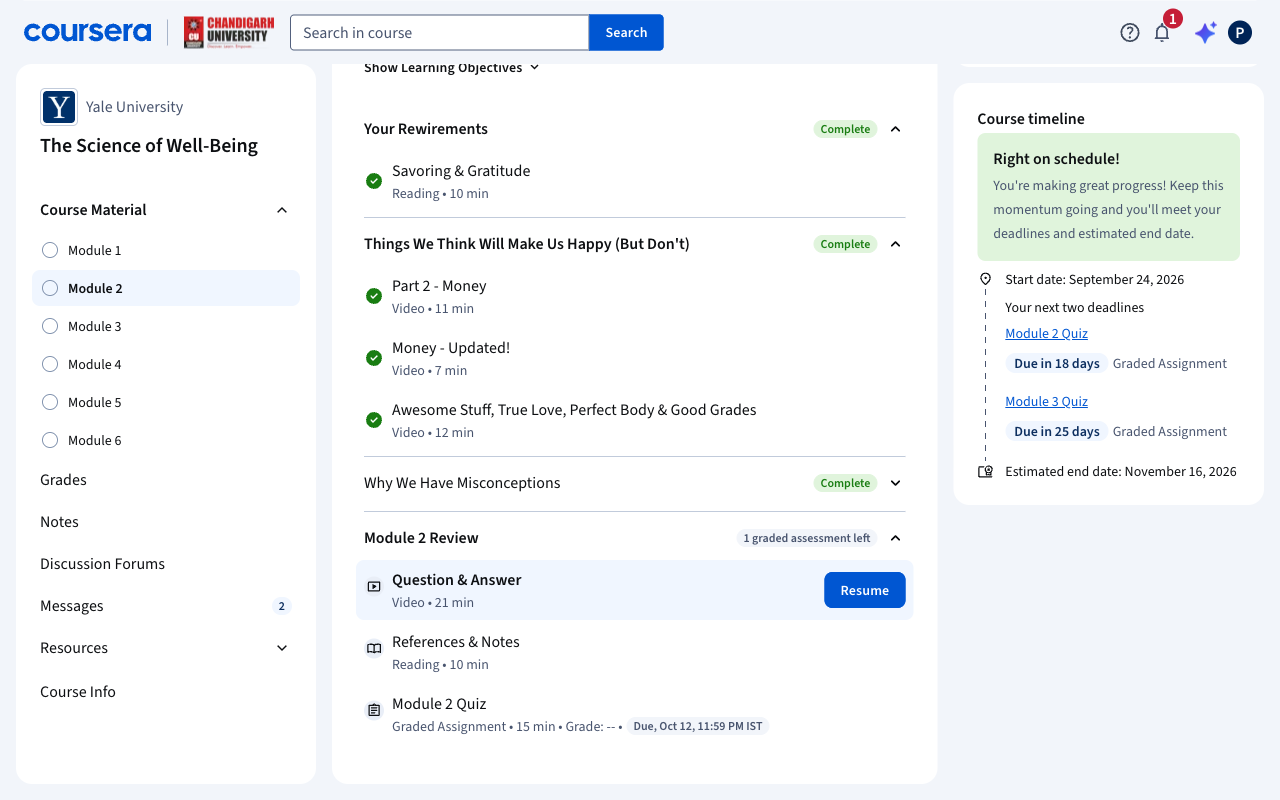
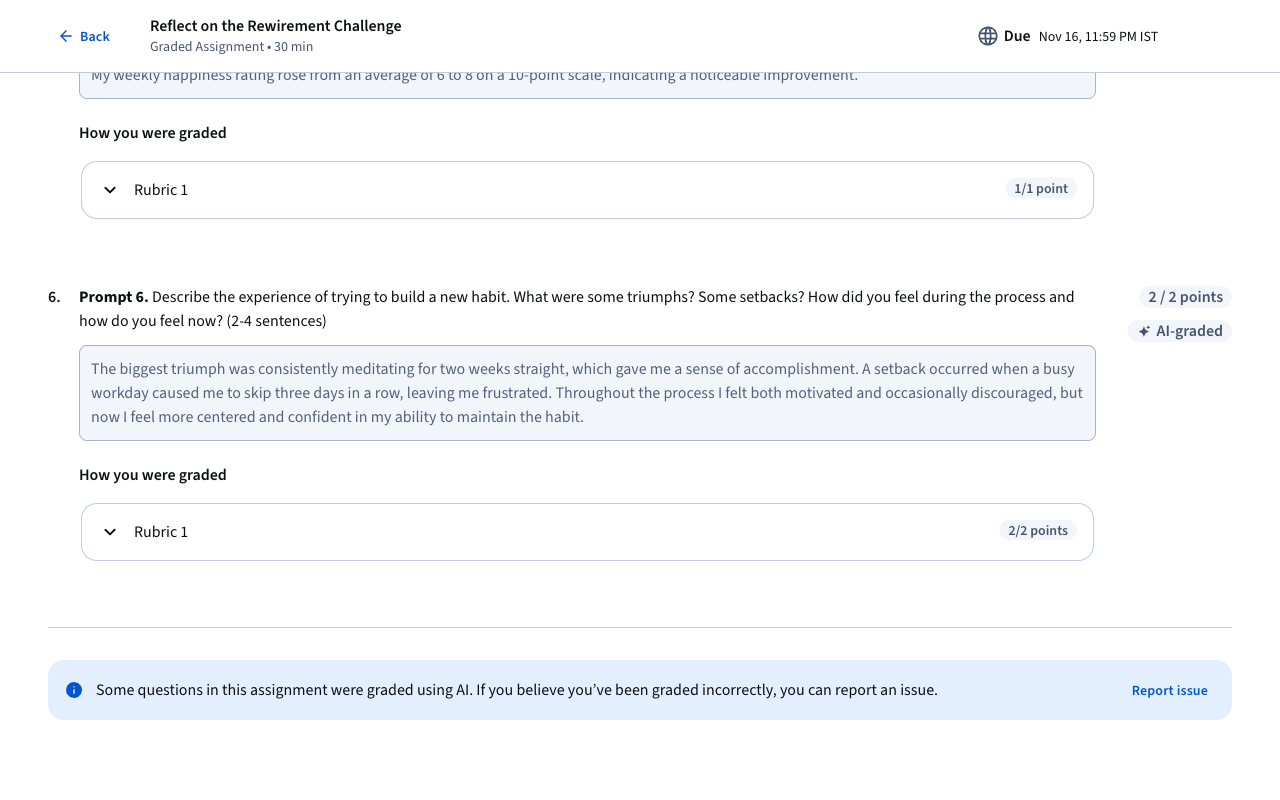
refactor: update default OpenRouter model and fallback chain configuration

diff --git a/tests/test_quiz_solver.py b/tests/test_quiz_solver.py
@@ -21,7 +21,7 @@ def test_solve_quiz_with_llm_json() -> None:
         mock_post.return_value = _mock_resp('{"answers": [{"index": 0, "selected": ["Option A"]}]}')
         assert solve_quiz_with_llm([{"index": 0, "text": "Q1?"}], Settings(groq_api_key="")) == {0: ["Option A"]}
         payload = mock_post.call_args[1]["json"]
-        assert payload["model"] == "inclusionai/ling-3.0-flash-fin:free" and payload["reasoning"] == {"enabled": True}
+        assert payload["model"] == "dots-studio/dots-3-note-preview:free" and payload["reasoning"] == {"enabled": True}
 
 
 def test_solve_quiz_retry_on_request_error() -> None:
@@ -100,7 +100,7 @@ def test_solve_quiz_retry_on_empty_choices() -> None:
 
 
 def test_solve_quiz_fallback_to_second_model_on_429() -> None:
-    """Verify solver falls back to dots-studio model when primary hits 429."""
+    """Verify solver falls back to nex-agi model when primary hits 429."""
     resp_429 = MagicMock()
     resp_429.raise_for_status.side_effect = requests.HTTPError("429 Client Error: Too Many Requests")
 
@@ -113,12 +113,12 @@ def test_solve_quiz_fallback_to_second_model_on_429() -> None:
         res = solve_quiz_with_llm([{"index": 0, "text": "Q1?"}], Settings(groq_api_key="", openrouter_api_key="single-key"))
         assert res == {0: ["Fallback 1 Ans"]}
         models_called = [call[1]["json"]["model"] for call in mock_post.call_args_list]
-        assert "inclusionai/ling-3.0-flash-fin:free" in models_called
         assert "dots-studio/dots-3-note-preview:free" in models_called
+        assert "nex-agi/nex-n2.5-mini:free" in models_called
 
 
 def test_solve_quiz_fallback_to_third_model_on_429() -> None:
-    """Verify solver falls back to qwen model when primary and secondary both hit 429."""
+    """Verify solver falls back to openrouter/free when primary and secondary both hit 429."""
     resp_429 = MagicMock()
     resp_429.raise_for_status.side_effect = requests.HTTPError("429 Client Error: Too Many Requests")
 
@@ -128,14 +128,14 @@ def test_solve_quiz_fallback_to_third_model_on_429() -> None:
             resp_429,
             resp_429,
             resp_429,
-            _mock_resp('{"answers": [{"index": 0, "selected": ["Qwen Ans"]}]}'),
+            _mock_resp('{"answers": [{"index": 0, "selected": ["Third Ans"]}]}'),
         ]
         res = solve_quiz_with_llm([{"index": 0, "text": "Q1?"}], Settings(groq_api_key="", openrouter_api_key="single-key"))
-        assert res == {0: ["Qwen Ans"]}
+        assert res == {0: ["Third Ans"]}
         models_called = [call[1]["json"]["model"] for call in mock_post.call_args_list]
-        assert "inclusionai/ling-3.0-flash-fin:free" in models_called
         assert "dots-studio/dots-3-note-preview:free" in models_called
-        assert "qwen/qwen3.8-27b:free" in models_called
+        assert "nex-agi/nex-n2.5-mini:free" in models_called
+        assert "openrouter/free" in models_called
 
 
 def test_solve_quiz_uses_groq_primary() -> None:

diff --git a/coursera_automation/config.py b/coursera_automation/config.py
@@ -22,14 +22,14 @@ class Settings:
     max_items: int = int(os.getenv("COURSERA_MAX_ITEMS", "25"))
     openrouter_api_key: str = os.getenv("OPENROUTER_API_KEY", "")
     openrouter_base_url: str = "https://openrouter.ai/api/v1"
-    openrouter_model: str = "inclusionai/ling-3.0-flash-fin:free"
+    openrouter_model: str = os.getenv("OPENROUTER_MODEL", "dots-studio/dots-3-note-preview:free")
     openrouter_vision_model: str = os.getenv("OPENROUTER_VISION_MODEL", "nex-agi/nex-n2.5-mini:free")
     openrouter_fallback_models: str = os.getenv(
         "OPENROUTER_FALLBACK_MODELS",
-        "dots-studio/dots-3-note-preview:free,qwen/qwen3.8-27b:free,openrouter/free",
+        "nex-agi/nex-n2.5-mini:free,openrouter/free,qwen/qwen3.8-27b:free",
     )
     groq_api_key: str = os.getenv("GROQ_API_KEY", "")
-    groq_model: str = os.getenv("GROQ_MODEL", "qwen/qwen3.8-27b")
+    groq_model: str = "qwen/qwen3.8-27b"
     groq_vision_model: str = os.getenv("GROQ_VISION_MODEL", "qwen/qwen3.8-27b")
     groq_base_url: str = os.getenv("GROQ_BASE_URL", "https://api.groq.com/openai/v1")
     post_quiz_wait_sec: int = int(os.getenv("COURSERA_POST_QUIZ_WAIT_SEC", "180"))

diff --git a/tests/test_config.py b/tests/test_config.py
@@ -10,8 +10,9 @@ def test_default_config() -> None:
     assert config.login_url == "https://www.coursera.org"
     assert config.headless is False
     assert config.openrouter_base_url == "https://openrouter.ai/api/v1"
-    assert config.openrouter_model == "inclusionai/ling-3.0-flash-fin:free"
+    assert config.openrouter_model == "dots-studio/dots-3-note-preview:free"
     assert config.openrouter_vision_model == "nex-agi/nex-n2.5-mini:free"
+    assert config.groq_model == "qwen/qwen3.8-27b"
     assert config.groq_vision_model == "qwen/qwen3.8-27b"
     assert config.post_quiz_wait_sec == 180
 

diff --git a/docs/ARCHITECTURE.md b/docs/ARCHITECTURE.md
@@ -13,7 +13,7 @@ sequenceDiagram
     participant Course as coursera_automation.course
     participant Disp as items.dispatcher
     participant Item as Video/Lab/Reading/Quiz/Dialogue/Discussion
-    participant LLM as OpenRouter Ling-3.0-Flash-Fin
+    participant LLM as OpenRouter Fallback
     participant Dial as items.navigation.dialogs
     participant Nav as items.navigation.navigator
 
@@ -75,7 +75,7 @@ sequenceDiagram
   - `image_extractor.py`: DOM extraction and protocol normalization of `<figure><img>` diagram URLs from question prompt viewers.
   - `parser.py`: Question DOM extraction scoped to top-level question parts (`[data-testid^="part-"]`), extracting prompt text and image URLs while stripping adversarial AI honeypot instructions.
   - `groq_solver.py`: Groq API solver using `qwen/qwen3.8-27b` (both text and multimodal vision, with reasoning effort omitted for multimodal) via OpenAI-compatible endpoint with tenacity exponential backoff retry.
-  - `openrouter_solver.py`: OpenRouter LLM solver with multimodal vision model routing (`nex-agi/nex-n2.5-mini:free`) and multi-model fallback chain (`inclusionai/ling-3.0-flash-fin:free` -> `dots-studio/dots-3-note-preview:free` -> `qwen/qwen3.8-27b:free` -> `openrouter/free`).
+  - `openrouter_solver.py`: OpenRouter LLM solver with multimodal vision model routing (`nex-agi/nex-n2.5-mini:free`) and multi-model fallback chain (`dots-studio/dots-3-note-preview:free` -> `nex-agi/nex-n2.5-mini:free` -> `openrouter/free` -> `qwen/qwen3.8-27b:free`).
   - `solver.py`: LLM quiz solver orchestrator coordinating batch text solving and per-question multimodal solving using Groq with OpenRouter fallback.
   - `status.py`: Completed/passed quiz and review-mode detection, plus Final Exam header recognition.
   - `submit.py`: Quiz submission, modal confirmation dialog handling, and 3-minute post-submission evaluation DOM stabilization wait.

diff --git a/README.md b/README.md
@@ -23,7 +23,6 @@ Configure global settings and API keys in `.env`:
 
 ```ini
 GROQ_API_KEY="gsk_your_groq_api_key"
-GROQ_MODEL="qwen/qwen3.8-27b"
 GROQ_VISION_MODEL="qwen/qwen3.8-27b"
 OPENROUTER_API_KEY="sk-or-v1-key1,sk-or-v1-key2,sk-or-v1-key3" # Comma-separated for auto-rotation
 OPENROUTER_VISION_MODEL="nex-agi/nex-n2.5-mini:free"
